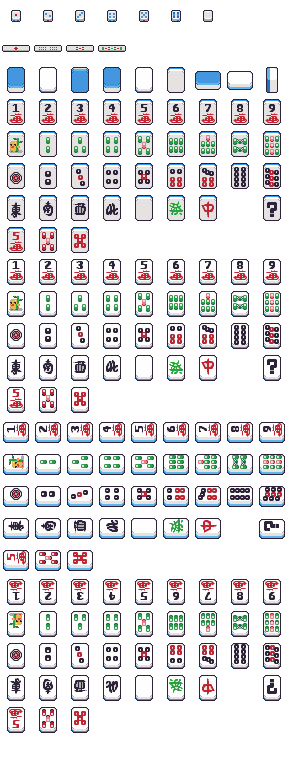
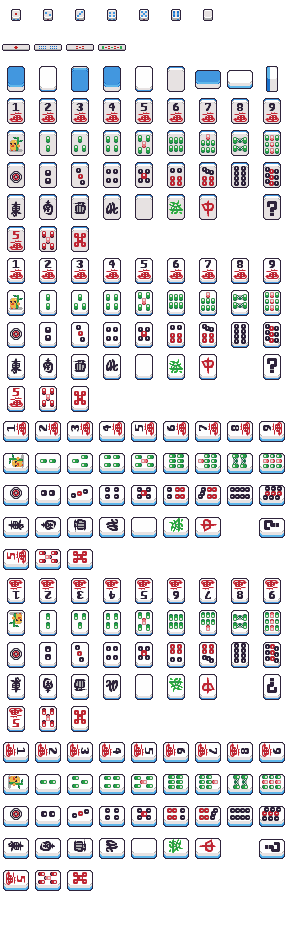
Create new game first visualize for each player

diff --git a/components/game_builder.py b/components/game_builder.py
@@ -1,25 +1,98 @@
 from utils.enums import Direction
 from components.image_cutter import TilesCutter
 from utils.constants import TILES_IMAGE_LINK
+from components.tile import Tile
 from pygame import Surface
+from utils.enums import TilesType
+
 
 class GameBuilder:
     def __init__(self, screen: Surface, clock):
         self.screen = screen
         self.clock = clock
         self.tiles_cutter = TilesCutter(TILES_IMAGE_LINK)
-        
-    def direction(self) -> list[int]:
+
+    def direction(self) -> list[Direction]:
         import random
-        current_direction = random.randint(1,4)
+
+        current_direction = random.randint(1, 4)
         standard = [Direction.NORTH, Direction.EAST, Direction.SOUTH, Direction.WEST]
         current_idx = standard.index(Direction(current_direction))
         return standard[current_idx:] + standard[:current_idx]
-    
-    def visualize_player(self, player_idx):
-        match player_idx:
-            case 1:
-                tile = self.tiles_cutter.cut_tiles("dou", 9)
-                self.screen.blit(tile, (0,0))
-            case 2:
-                pass
+
+    def create_new_deck(self) -> list[Tile]:
+        from random import shuffle
+
+        full_deck = []
+        for i in range(1, 5):
+            dragon_tiles_deck = [Tile(TilesType.DRAGON, x) for x in range(1, 4)]
+            wind_tiles_deck = [Tile(TilesType.WIND, x) for x in range(1, 5)]
+            full_deck += dragon_tiles_deck + wind_tiles_deck
+        for i in range(1, 4):
+            pin_tiles_deck = [Tile(TilesType.PIN, x) for x in range(1, 10)]
+            sou_tiles_deck = [Tile(TilesType.SOU, x) for x in range(1, 10)]
+            man_tiles_deck = [Tile(TilesType.MAN, x) for x in range(1, 10)]
+
+            full_deck += pin_tiles_deck + sou_tiles_deck + man_tiles_deck
+
+        # Handle special case for AKA
+        pin_tiles_deck = [Tile(TilesType.PIN, x) for x in range(1, 10) if x != 5]
+        sou_tiles_deck = [Tile(TilesType.SOU, x) for x in range(1, 10) if x != 5]
+        man_tiles_deck = [Tile(TilesType.MAN, x) for x in range(1, 10) if x != 5]
+        full_deck += (
+            pin_tiles_deck
+            + sou_tiles_deck
+            + man_tiles_deck
+            + [Tile(TilesType.AKA, x) for x in range(1, 4)]
+        )
+
+        shuffle(full_deck)
+        return full_deck
+
+    def roll_dices(self) -> int:
+        from random import randint
+
+        return randint(2, 12)
+
+    def visualize_player(self, player_idx: int, player_decks: list[Tile]) -> None:
+        from utils.helper import calculate_center_range
+
+        start_x_center, start_y_center = calculate_center_range(
+            self.screen, player_idx, len(player_decks)
+        )
+
+        for idx, tile in enumerate(player_decks):
+            print(f"Player {player_idx}: ", tile.number, tile.type, tile.hidden)
+            if tile.hidden:
+                surface = self.tiles_cutter.cut_hidden_tiles(True, player_idx)
+
+            else:
+                surface = self.tiles_cutter.cut_tiles(
+                    tile.type, tile.number, player_idx
+                )
+            match player_idx:
+                case 1:
+                    self.screen.blit(
+                        surface, (start_x_center + 16 * idx, start_y_center)
+                    )
+                case 2:
+                    self.screen.blit(
+                        surface, (start_x_center, start_y_center + 16 * idx)
+                    )
+                case 3:
+                    self.screen.blit(
+                        surface, (start_x_center + 16 * idx, start_y_center)
+                    )
+                case 4:
+                    self.screen.blit(
+                        surface, (start_x_center, start_y_center + 16 * idx)
+                    )
+
+    def visualize_tile(
+        self,
+        player_idx: int,
+        tile_type: TilesType,
+        tile_number: int,
+    ) -> None:
+        tile = self.tiles_cutter.cut_tiles(tile_type, tile_number, player_idx)
+        self.screen.blit(tile, (0, 0))

diff --git a/components/image_cutter.py b/components/image_cutter.py
@@ -1,13 +1,90 @@
 import pygame
 from pygame import Surface
+from utils.enums import TilesType
+
+
 class TilesCutter:
-    def __init__(self, deckImage:str):
+    def __init__(self, deckImage: str):
         self.image = pygame.image.load(deckImage).convert_alpha()
 
-    def cut_tiles(self, tiles_type: str | None, tiles_number: int | None) -> Surface:
-        if tiles_number is not None:
-            cropped_surface =  self.image.subsurface(pygame.Rect((tiles_number - 1) * 32, 3 * 32, 32, 32))
-            return cropped_surface
-        else:
-            pass
+    def cut_tiles(
+        self,
+        tiles_type: TilesType,
+        tiles_number: int,
+        player_idx: int = 1,
+    ) -> Surface:
+        match tiles_type:
+            case TilesType.MAN:
+                vertical_line_order = 0
+            case TilesType.SOU:
+                vertical_line_order = 1
+            case TilesType.PIN:
+                vertical_line_order = 2
+            case TilesType.WIND | TilesType.DRAGON:
+                vertical_line_order = 3
+            case TilesType.AKA:
+                vertical_line_order = 4
 
+        match player_idx:
+            case 1:
+                image_section = 1
+            case 2:
+                image_section = 4
+            case 3:
+                image_section = 3
+            case 4:
+                image_section = 2
+        x_left = (
+            tiles_number - 1 if tiles_type != TilesType.DRAGON else tiles_number + 3
+        )
+        y_top = 3 + vertical_line_order + 5 * image_section
+
+        return self.image.subsurface(
+            pygame.Rect(
+                self._tile_offset_surface(x_left, y_top),
+            )
+        )
+
+    def cut_hidden_tiles(
+        self,
+        standing: bool,
+        player_idx: int = 1,
+    ) -> Surface:
+        line = 2
+        match player_idx:
+            case 1:
+                surface = self.image.subsurface(
+                    pygame.Rect(self._tile_offset_surface(0, line))
+                )
+            case 2:
+                if standing:
+                    surface = self.image.subsurface(
+                        pygame.Rect(self._tile_offset_surface(8, line))
+                    )
+                else:
+                    surface = self.image.subsurface(
+                        pygame.Rect(self._tile_offset_surface(6, line))
+                    )
+                surface = pygame.transform.flip(surface, True, False)
+            case 3:
+                if standing:
+                    surface = self.image.subsurface(
+                        pygame.Rect(self._tile_offset_surface(2, line))
+                    )
+                else:
+                    surface = self.image.subsurface(
+                        pygame.Rect(self._tile_offset_surface(3, line))
+                    )
+            case 4:
+                if standing:
+                    surface = self.image.subsurface(
+                        pygame.Rect(self._tile_offset_surface(8, line))
+                    )
+                else:
+                    surface = self.image.subsurface(
+                        pygame.Rect(self._tile_offset_surface(6, line))
+                    )
+        return surface
+
+    def _tile_offset_surface(self, x: int, y: int) -> tuple[int, int, int, int]:
+        return (x * 32, y * 32, 32, 32)

diff --git a/components/game_manager.py b/components/game_manager.py
@@ -1,6 +1,9 @@
 import pygame
 from utils.constants import WINDOW_SIZE, FPS_LIMIT
 from components.game_builder import GameBuilder
+from utils.enums import Direction
+from components.events.mouse_button_down import MouseButtonDown
+
 
 class GameManager:
     def __init__(self):
@@ -13,11 +16,13 @@ class GameManager:
         self.clock.tick(FPS_LIMIT)  # limits FPS to 60
 
         self.builder = GameBuilder(self.screen, self.clock)
-        self.new()
 
-    def run(self) -> bool:
         # Init game
 
+        self.new()
+        self.mouse_button_controller = MouseButtonDown(self.screen)
+
+    def run(self) -> bool:
 
         # Listen user event
         event = self.listenEvent()
@@ -32,14 +37,61 @@ class GameManager:
                 case pygame.QUIT:
                     return {"exit": True}
                 case pygame.MOUSEBUTTONDOWN:
-                    print(event)
+                    self.mouse_button_controller.run(event)
+
                 case pygame.MOUSEMOTION:
                     pass
         return {"exit": False}
-    
+
     def new(self):
         # Choose direction for player
-        self.builder.direction()
-        for player_idx in range(1,5):
-            self.builder.visualize_player(player_idx)
+        self.direction = self.builder.direction()
 
+        # Build tiles wall
+        self.new_deck = self.builder.create_new_deck()
+
+        # Role 2 dices (from 2 -> 12)
+        dices_score = self.builder.roll_dices()
+        # Cut wall
+        cutting_points = 34 * ((dices_score - 1) % 4 + 1) - 2 * dices_score
+        self.new_deck = (
+            self.new_deck[cutting_points:] + self.new_deck[0 : cutting_points - 1]
+        )
+        self.draw_deck = self.new_deck[2 * 7 :]
+        self.death_wall = self.new_deck[0 : 2 * 7 - 1]
+
+        # Draw tiles (13 tiles, main draws 14 tiles)
+        self.player_deck = {
+            "player1_deck": [],
+            "player2_deck": [],
+            "player3_deck": [],
+            "player4_deck": [],
+        }
+        for i in range(1, 5):
+            for k in range(1, 5):
+                player_idx = self.direction.index(Direction(k))
+
+                if i == 4:
+                    self.player_deck[f"player{player_idx + 1}_deck"].append(
+                        self.draw_deck.pop()
+                    )
+                else:
+                    for j in range(1, 5):
+                        self.player_deck[f"player{player_idx + 1}_deck"].append(
+                            self.draw_deck.pop()
+                        )
+
+        # Remove hidden for player1
+        for i in range(1, 5):
+            print(f"Player {i} deck: ", self.player_deck[f"player{i}_deck"])
+
+        for tile in self.player_deck["player1_deck"]:
+            tile.hidden = False
+
+        # View Dora
+        self.dora = self.death_wall[5]
+
+        for player_idx in range(1, 5):
+            self.builder.visualize_player(
+                player_idx, self.player_deck[f"player{player_idx}_deck"]
+            )

diff --git a/utils/helper.py b/utils/helper.py
@@ -1,0 +1,19 @@
+from pygame import Surface
+
+
+def calculate_center_range(
+    screen: Surface, player_idx: int, deck_size: int
+) -> tuple[int, int]:
+    middle_height = screen.get_height() / 2
+    middle_width = screen.get_width() / 2
+    quarter_height = screen.get_height() / 4
+    quarter_width = screen.get_width() / 4
+    match player_idx:
+        case 1:
+            return (middle_width - (deck_size * 16 / 2), middle_height + quarter_height)
+        case 2:
+            return (middle_width - quarter_width, middle_height - (deck_size * 16 / 2))
+        case 3:
+            return (middle_width - (deck_size * 16 / 2), middle_height - quarter_height)
+        case 4:
+            return (middle_width + quarter_width, middle_height - (deck_size * 16 / 2))

diff --git a/components/tile.py b/components/tile.py
@@ -1,0 +1,14 @@
+from utils.enums import TilesType
+
+
+class Tile:
+    def __init__(self, type: TilesType, number: int):
+        self.type = type
+        self.number = number
+        self.hidden = True
+
+    def click(self):
+        if self.hidden:
+            return
+
+        print(self.type, self.numbder)

diff --git a/utils/constants.py b/utils/constants.py
@@ -1,10 +1,7 @@
+from utils.enums import TilesType
+from components.tile import Tile
+
 FPS_LIMIT = 60
 WINDOW_SIZE = (1280, 720)
 
-TILES_IMAGE_LINK = 'images/tiles/sheet.png'
-
-TILES = [{}]
-
-class Tile:
-    def __init__():
-        pass
+TILES_IMAGE_LINK = "images/tiles/sheet.png"

diff --git a/components/events/mouse_button_down.py b/components/events/mouse_button_down.py
@@ -1,0 +1,11 @@
+from pygame import Surface
+import pygame
+
+
+class MouseButtonDown:
+    def __init__(self, screen: Surface):
+        self.screen = screen
+
+    def run(self, event):
+        # Check what is clicking
+        pass

diff --git a/utils/enums.py b/utils/enums.py
@@ -1,7 +1,17 @@
 from enum import Enum
 
+
 class Direction(Enum):
     NORTH = 1
     EAST = 2
     SOUTH = 3
     WEST = 4
+
+
+class TilesType(Enum):
+    MAN = 1
+    SOU = 2
+    PIN = 3
+    WIND = 4
+    DRAGON = 5
+    AKA = 6

diff --git a/components/player.py b/components/player.py
@@ -1,0 +1,3 @@
+class Player:
+    def __init__(self):
+        pass
